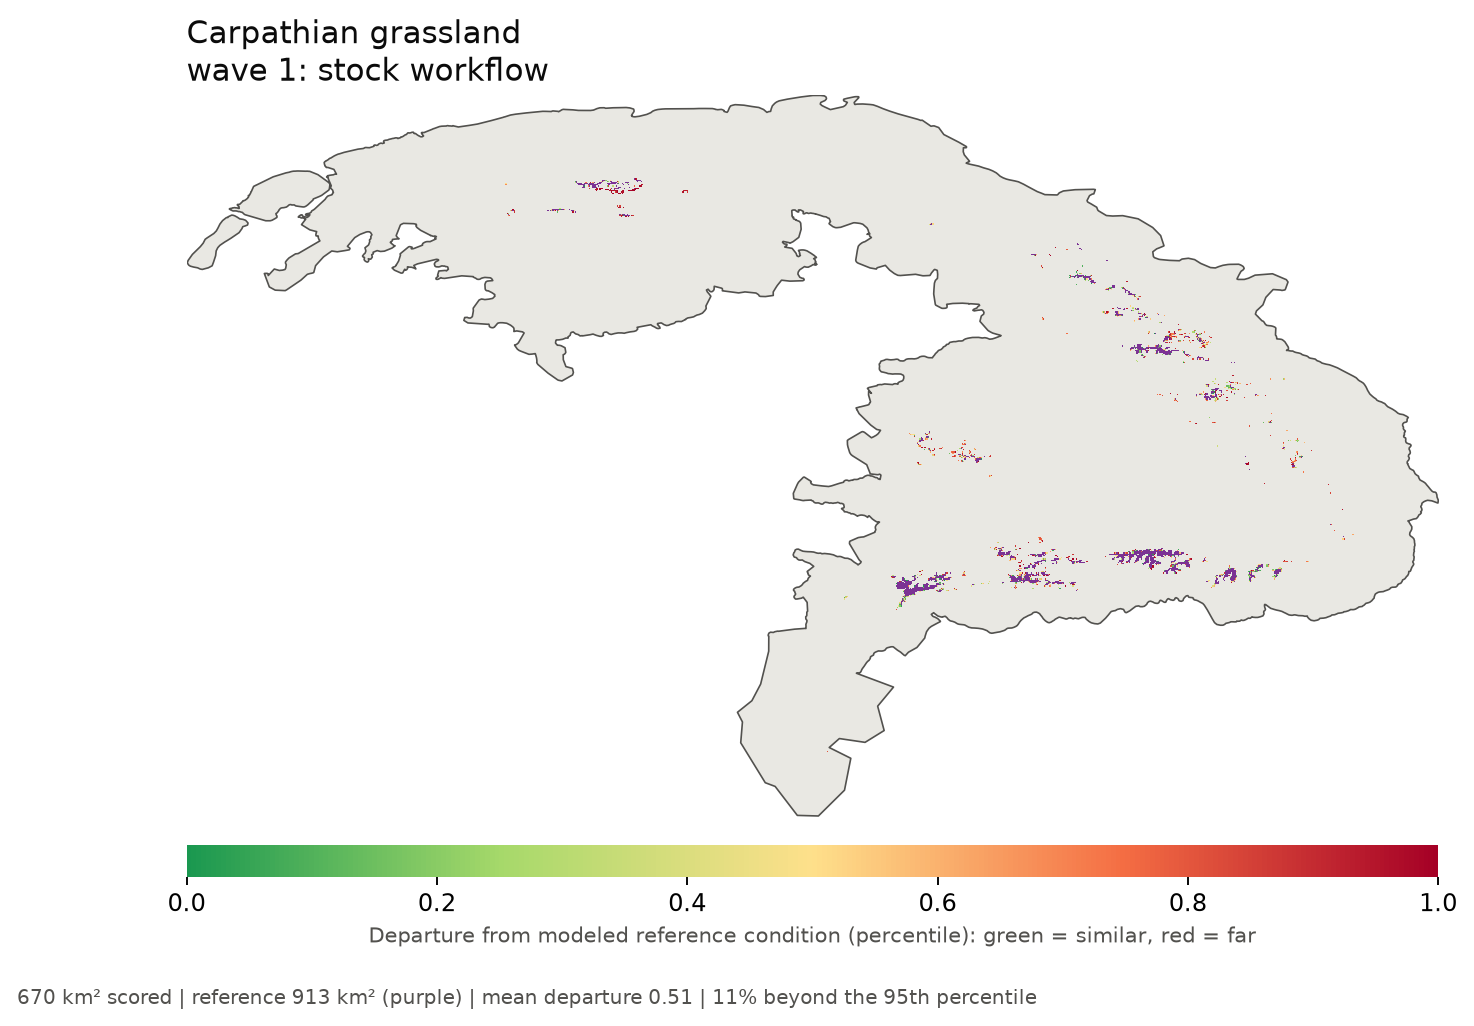
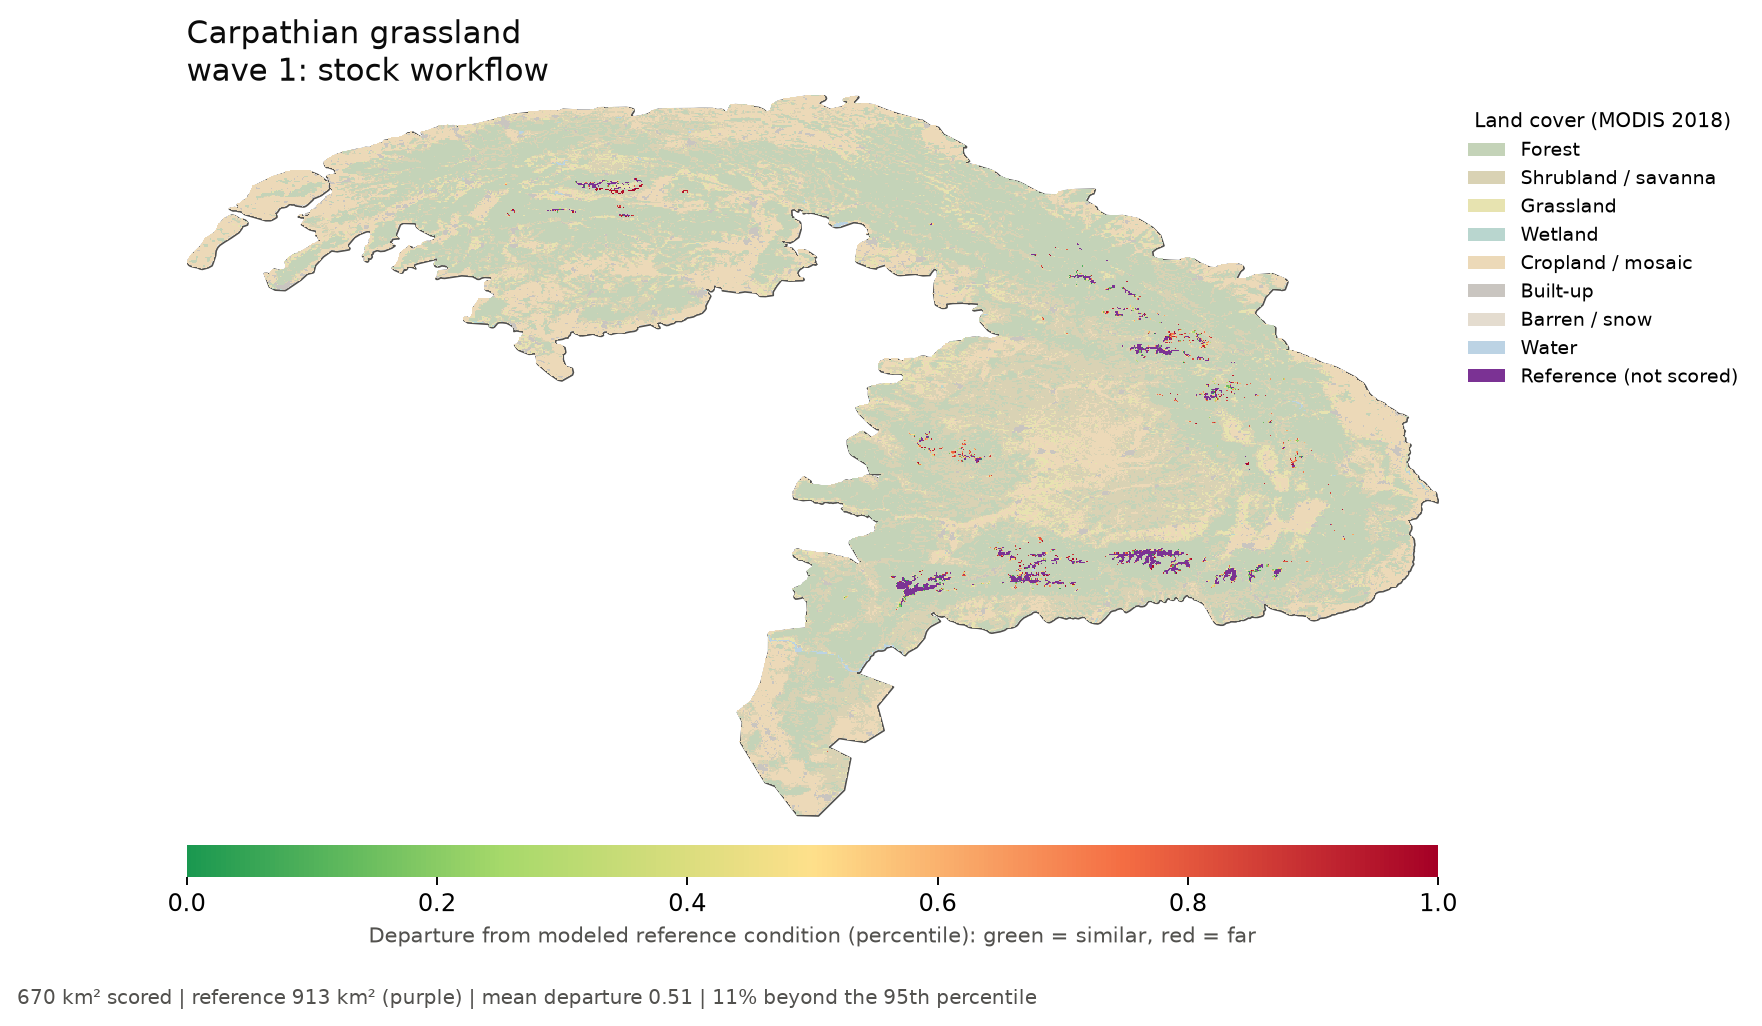
Habitat-split maps, forest v2 maps, land-cover background on all maps

diff --git a/scripts/tools/make_habitat_maps.py b/scripts/tools/make_habitat_maps.py
@@ -1,0 +1,85 @@
+"""Maps of the forest / grassland split from scripts.tools.classify_habitat.
+
+Usage:
+    python -m scripts.tools.make_habitat_maps OUTPUT_DIR [NAME ...]
+
+One PNG per landscape (habitat_<NAME>_map.png): forest, grassland, disturbed or regrowing tree cover
+(unscored) and other unscored land, over the landscape outline, with the area of each class.
+Large landscapes are sampled down to <= ~1,800 px on the long side.
+"""
+import argparse
+from pathlib import Path
+
+import geopandas as gpd
+import matplotlib.pyplot as plt
+import numpy as np
+import rasterio
+from matplotlib.colors import ListedColormap
+from matplotlib.patches import Patch
+from shapely import affinity
+
+ROOT = Path(__file__).resolve().parents[2]
+NAMES = {"kaza": "KAZA", "pacha": "PACHA", "central_india_boundary": "Central India", "nepal_tal": "Nepal TAL (earlier extent)",
+         "nepal_tal_2026": "Nepal TAL 2026", "soknot": "SOKNOT", "carpathian": "Carpathian", "sabah": "Sabah",
+         "seka": "SEKA", "adirondacks": "Adirondacks"}
+# code -> (label, color); 1 and 2 are both forest.
+CLASSES = [("Forest", "#1F5F8B"), ("Grassland", "#E8A065"), ("Disturbed or regrowing tree cover (unscored)", "#C9B8A3"),
+           ("Other unscored (cropland, water, built-up, bare)", "#E9E8E3")]
+INK, MUTED = "#0b0b0b", "#52514e"
+
+
+def make_map(name: str, out_dir: Path) -> Path | None:
+    path = ROOT / "data" / "habitat" / f"{name}_habitat_2018.tif"
+    if not path.exists():
+        return None
+    with rasterio.open(path) as src:
+        habitat, transform = src.read(1), src.transform
+    height, width = habitat.shape
+    aoi = gpd.read_file(ROOT / "config" / "aoi" / f"{name}.geojson").to_crs("EPSG:6933")
+    from rasterio.features import geometry_mask
+    inside = geometry_mask(aoi.geometry, out_shape=habitat.shape, transform=transform, invert=True)
+    group = np.full(habitat.shape, 0, dtype="uint8")             # 0 = outside the landscape
+    group[inside] = 4                                            # other unscored
+    group[inside & ((habitat == 1) | (habitat == 2))] = 1
+    group[inside & (habitat == 3)] = 2
+    group[inside & (habitat == 4)] = 3
+    km2 = (abs(transform.a) / 1000) ** 2
+    areas = [(group == k).sum() * km2 for k in (1, 2, 3, 4)]
+    factor = max(1, int(np.ceil(max(height, width) / 1800)))
+    shown = group[factor // 2::factor, factor // 2::factor]
+    extent = (transform.c / 1000, (transform.c + width * transform.a) / 1000,
+              (transform.f + height * transform.e) / 1000, transform.f / 1000)
+    outline = gpd.GeoSeries([affinity.scale(g, 0.001, 0.001, origin=(0, 0)) for g in aoi.geometry])
+    aspect = (extent[3] - extent[2]) / (extent[1] - extent[0])
+    fig, ax = plt.subplots(figsize=(9.5, min(9.5 * aspect + 1.6, 13)), facecolor="white")
+    ax.imshow(np.ma.masked_equal(shown, 0), extent=extent, interpolation="nearest", vmin=0.5, vmax=4.5,
+              cmap=ListedColormap([c for _, c in CLASSES]))
+    outline.plot(ax=ax, facecolor="none", edgecolor=MUTED, linewidth=0.7)
+    ax.set_xlim(extent[0], extent[1]); ax.set_ylim(extent[2], extent[3]); ax.set_aspect("equal")
+    ax.set_xticks([]); ax.set_yticks([]); ax.set_xlabel(""); ax.set_ylabel("")
+    for side in ax.spines.values():
+        side.set_visible(False)
+    ax.set_title(f"{NAMES.get(name, name)}: forest or grassland\n(ESA WorldCover land cover + Hansen canopy > 20%)",
+                 fontsize=13, loc="left", color=INK)
+    ax.legend(handles=[Patch(facecolor=c, edgecolor="#8d8c85", label=f"{label}: {area:,.0f} km²")
+                       for (label, c), area in zip(CLASSES, areas)],
+              loc="upper center", bbox_to_anchor=(0.5, -0.02), ncol=1, frameon=False, fontsize=9)
+    out_dir.mkdir(parents=True, exist_ok=True)
+    out = out_dir / f"habitat_{name}_map.png"
+    fig.savefig(out, dpi=150, bbox_inches="tight", facecolor="white")
+    plt.close(fig)
+    return out
+
+
+def main() -> None:
+    parser = argparse.ArgumentParser(description=__doc__)
+    parser.add_argument("output_dir", type=Path)
+    parser.add_argument("names", nargs="*")
+    args = parser.parse_args()
+    for name in args.names or list(NAMES):
+        out = make_map(name, args.output_dir)
+        print(f"{name:26} {'wrote ' + out.name if out else 'no habitat raster'}", flush=True)
+
+
+if __name__ == "__main__":
+    main()

diff --git a/results/maps/README.md b/results/maps/README.md
@@ -13,3 +13,10 @@ One map per finished run, made by `python -m scripts.tools.make_maps results/map
   cover little of the landscape's environment give scores that mostly reflect extrapolation.
   The straight-edged blocks visible in some maps (e.g. Sabah forest) come from the coarse 0.25 degree
   (~28 km) ERA5 / GLDAS climate and soil-moisture predictors, which are constant inside each cell.
+
+
+## Update: land-cover background, forest v2 maps and habitat maps
+- Every integrity map now has a MODIS 2018 land-cover background (muted colors) behind the scores.
+- `*_forestv2_map.png`: forest runs with the canopy + human-pressure reference (Adirondacks, Nepal TAL 2026, SEKA, Sabah).
+- `habitat_<landscape>_map.png`: the forest / grassland / unscored split for ten landscapes
+  (ESA WorldCover land cover + Hansen canopy > 20 %; tree cover that fails the canopy test is "disturbed", unscored).
